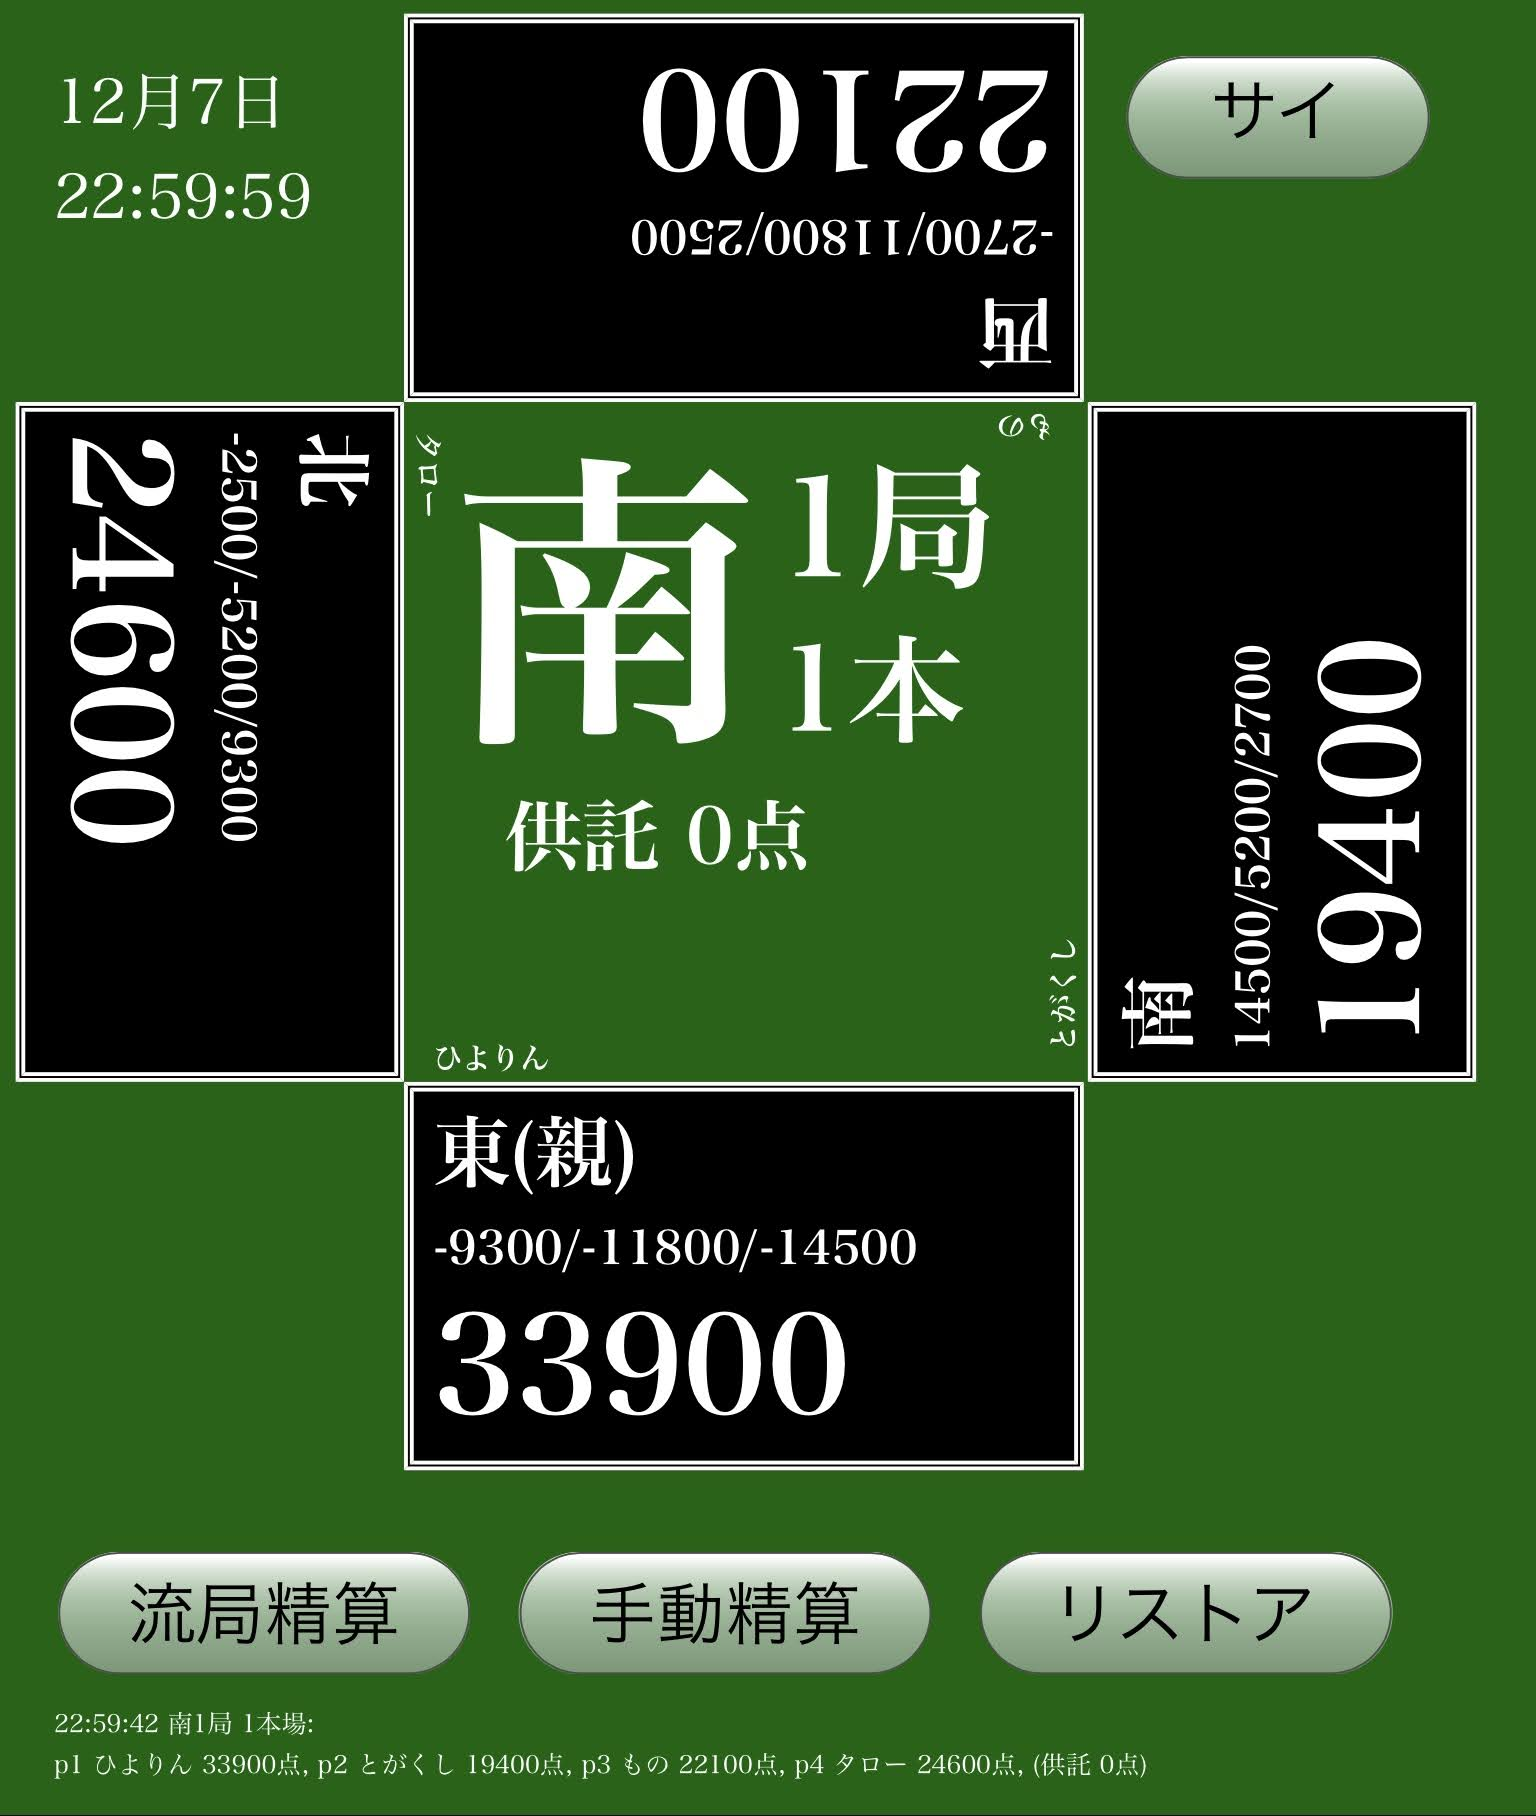
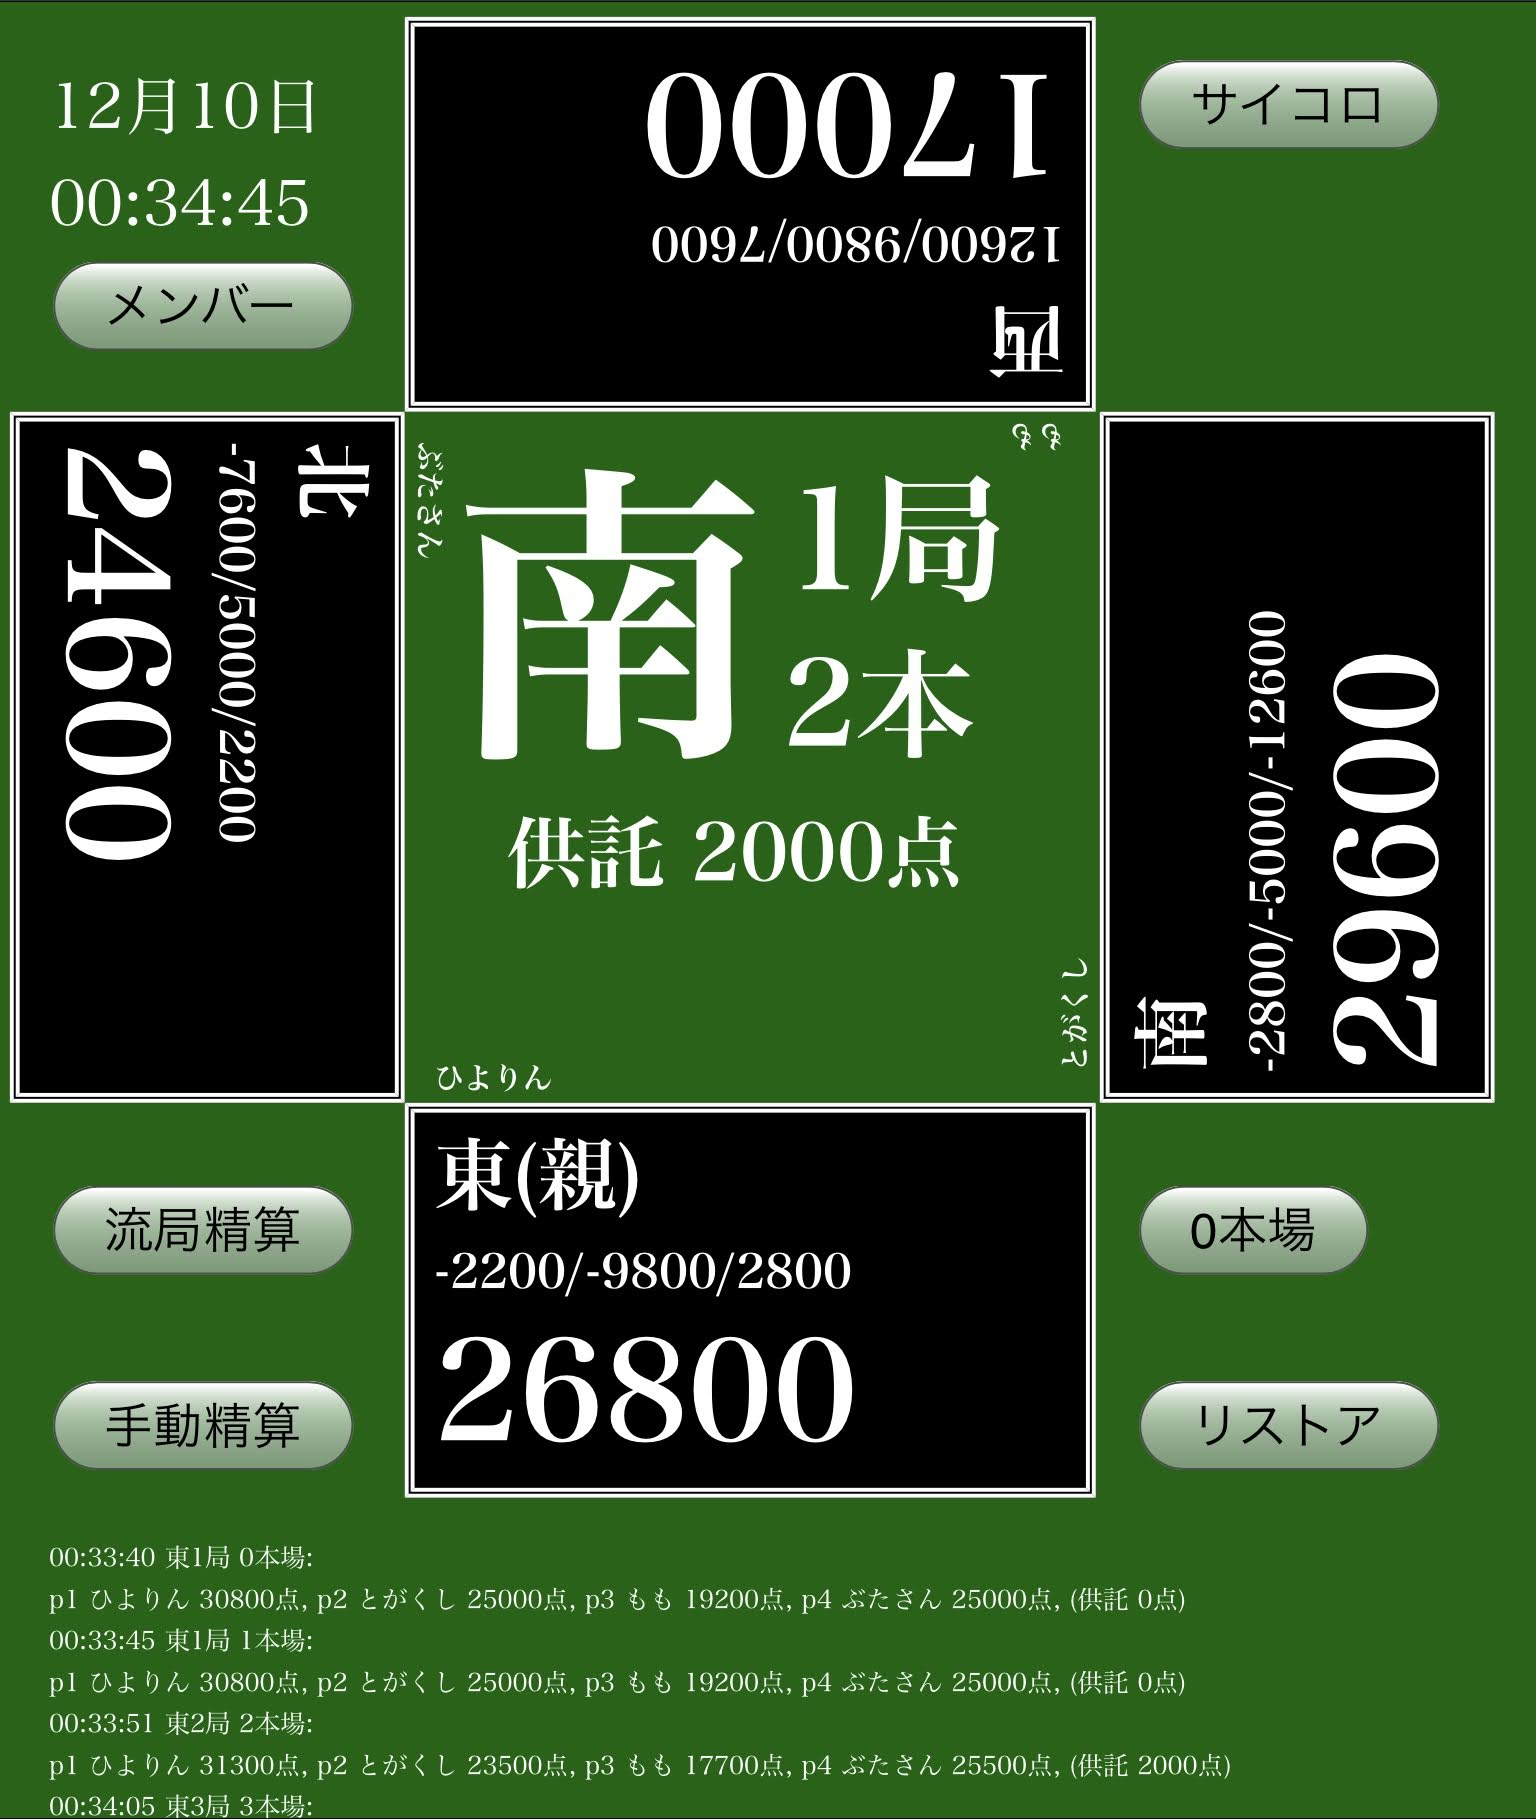
スクリーンショット更新。

Changed region(s): [[0.0, 0.0, 1.0, 1.0]]

diff --git a/README.md b/README.md
@@ -7,7 +7,9 @@
 
 ![screenshot1](images/sc-01.jpg)
 
-![screenshot2](images/sc-03.jpg)
+![screenshot4](images/sc-04.jpg)
+
+![screenshot3](images/sc-03.jpg)
 
 ![screenshot2](images/sc-02.png)
 
